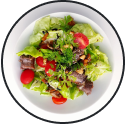
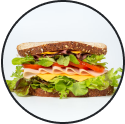
Add list order images

diff --git a/src/features/listOrderSlice/listOrderSlice.tsx b/src/features/listOrderSlice/listOrderSlice.tsx
@@ -24,42 +24,44 @@ const initialState: OrderState = [
     calories: 527,
     info: 'Non-vegan',
     image: require('../../assets/images/burger_small.png'),
-    displayImage: require('../../assets/images/burger_small.png'),
+    displayImage: require('../../assets/images/product_burger.png'),
     description: "A perfectly seasoned beef patty, covered with melted cheese and topped with pickles, onion, ketchup and mustard- all encased in a soft brioche bun. Who wants a cheeseburger that tastes better than your favourite takeaway version?! Perfect for family burger night- or any time."
   },
   {
     id: 2,
-    name: 'Sandwich',
-    price: 15,
-    grams: 150,
-    calories: 927,
-    info: 'Vegan',
-    image: require('../../assets/images/sandwich.png'),
-    displayImage: require('../../assets/images/sandwich.png'),
-    description: "Loaded on a delicious crusty bread, smothered in mayonnaise and topped with juicy slices of seasonal tomatoes, you won’t be able to have just one!"
-  },
-  {
-    id: 3,
     name: 'Veg Salad',
     price: 30,
     grams: 456,
     calories: 127,
     info: 'Vegan',
-    image: require('../../assets/images/salad.png'),
-    displayImage: require('../../assets/images/salad.png'),
+    image: require('../../assets/images/veg_salad.png'),
+    displayImage: require('../../assets/images/product_salad.jpeg'),
     description: "A delicious salad made with fresh tomatoes, onions, and cucumber. It’s a must-try"
   },
   {
-    id: 4,
-    name: 'BBQ Chicken Pizza',
+    id: 3,
+    name: 'Potato Salad',
     price: 90,
     grams: 450,
     calories: 467,
     info: 'Halal',
-    image: require('../../assets/images/pizza.png'),
-    displayImage: require('../../assets/images/pizza.png'),
-    description: "A crispy, homemade pizza topped with fresh chicken, tomatoes, and onions. Has a sliced cheese on the side. Full of the heat!"
+    image: require('../../assets/images/potato_salad.png'),
+    displayImage: require('../../assets/images/product_potato.jpeg'),
+    description: "It is typically made with boiled potatoes, mayonnaise, vinegar, celery, onion, and other seasonings. served as a side dish at barbecues, picnics, and potlucks!"
   },
+  {
+    id: 4,
+    name: 'Bread Sandwich',
+    price: 15,
+    grams: 150,
+    calories: 927,
+    info: 'Vegan',
+    image: require('../../assets/images/sandwich.png'),
+    displayImage: require('../../assets/images/product_sandwich.jpeg'),
+    description: "Loaded on a delicious crusty bread, smothered in mayonnaise and topped with juicy slices of seasonal tomatoes, you won’t be able to have just one!"
+  },
+  
+  
   {
     id: 5,
     name: 'More',

diff --git a/src/pages/ProductDetailsPage/ProductDetailsPage.tsx b/src/pages/ProductDetailsPage/ProductDetailsPage.tsx
@@ -1,15 +1,16 @@
-import { View, Text, Image, TouchableOpacity } from 'react-native'
 import React, { useRef } from 'react'
+import { useSelector } from 'react-redux';
+import { View, Text, Image, TouchableOpacity } from 'react-native'
 import { NativeStackNavigationProp } from '@react-navigation/native-stack';
-import { RootStackParamList } from '../../../types/types';
-import { DELI_BLUE, DELI_TEXT } from '../../assets/common';
-import SmallButton from '../../components/SmallButton/SmallButton';
-import BottomSheet, { BottomSheetMethods } from '@devvie/bottom-sheet';
-import HeroButton from '../../components/HeroButton/HeroButton';
-import { useDispatch, useSelector } from 'react-redux';
-import { Item } from '../../components/ItemList/ItemList';
 import type { RouteProp } from '@react-navigation/native';
-import { addOrder } from '../../features/addOrder/addOrderSlice';
+import { RootStackParamList } from '../../../types/types';
+
+import SmallButton from '../../components/SmallButton/SmallButton';
+import HeroButton from '../../components/HeroButton/HeroButton';
+import BottomSheet, { BottomSheetMethods } from '@devvie/bottom-sheet';
+import { Item } from '../../components/ItemList/ItemList';
+
+import { DELI_BLUE, DELI_TEXT } from '../../assets/common';
 import styles from './styles';
 
 interface IPageProps {
@@ -20,7 +21,6 @@ interface IPageProps {
 const ProductDetailsPage = ({ navigation, route }: IPageProps) => {
 
   const items = useSelector((state: {list: Item[]}) => state.list);
-  const dispatch = useDispatch()
 
   const item = items.find(item => Number(item.id) === Number(route.params.id)); //why
 
@@ -28,14 +28,10 @@ const ProductDetailsPage = ({ navigation, route }: IPageProps) => {
     return <Text>Item not found</Text>
   }
 
-  const addToRecentOrder = (item: Item) => {
-    dispatch(addOrder(item));
-  }
-
   const sheetRef = useRef<BottomSheetMethods>(null)
   return (
     <View style={styles.container}>
-      <Image source={require('../../assets/images/product.png')} style={styles.image} />
+      <Image source={require('../../assets/images/product_burger.png')} style={styles.image} />
       <View style={styles.textContainer}>
         <Text style={styles.header}>{item.name}</Text>
         <View style={styles.descriptionContainer}>
